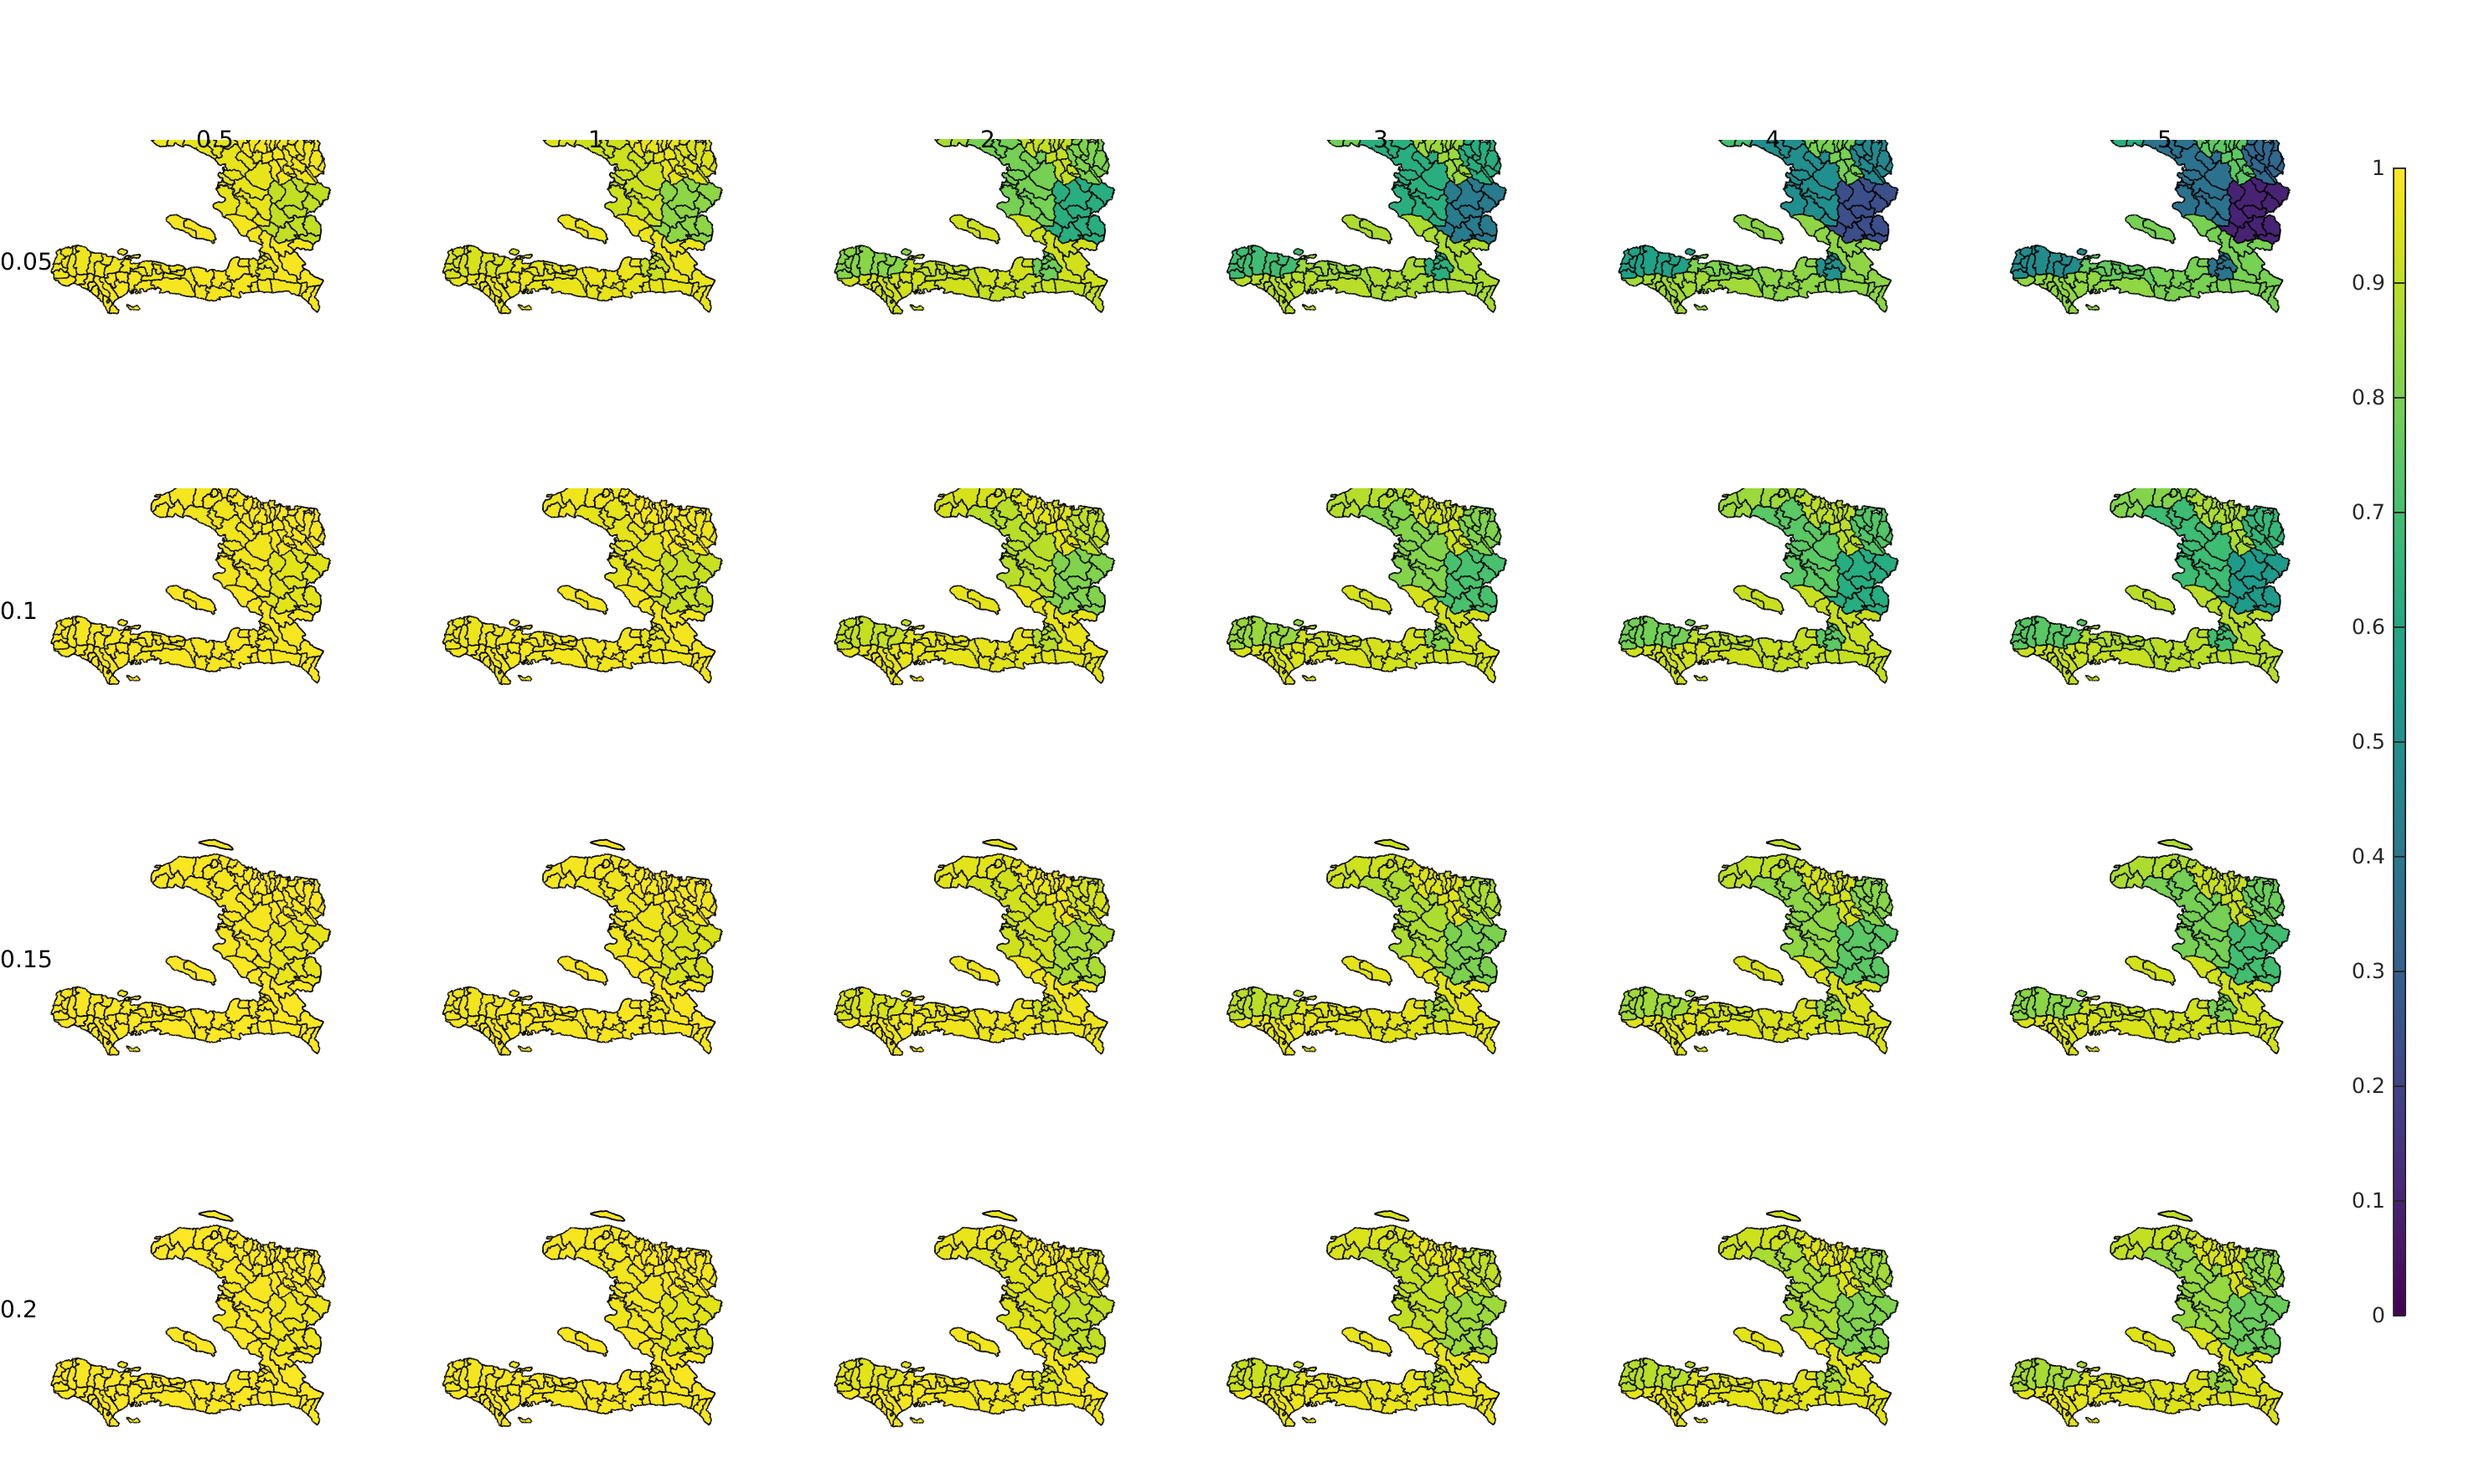
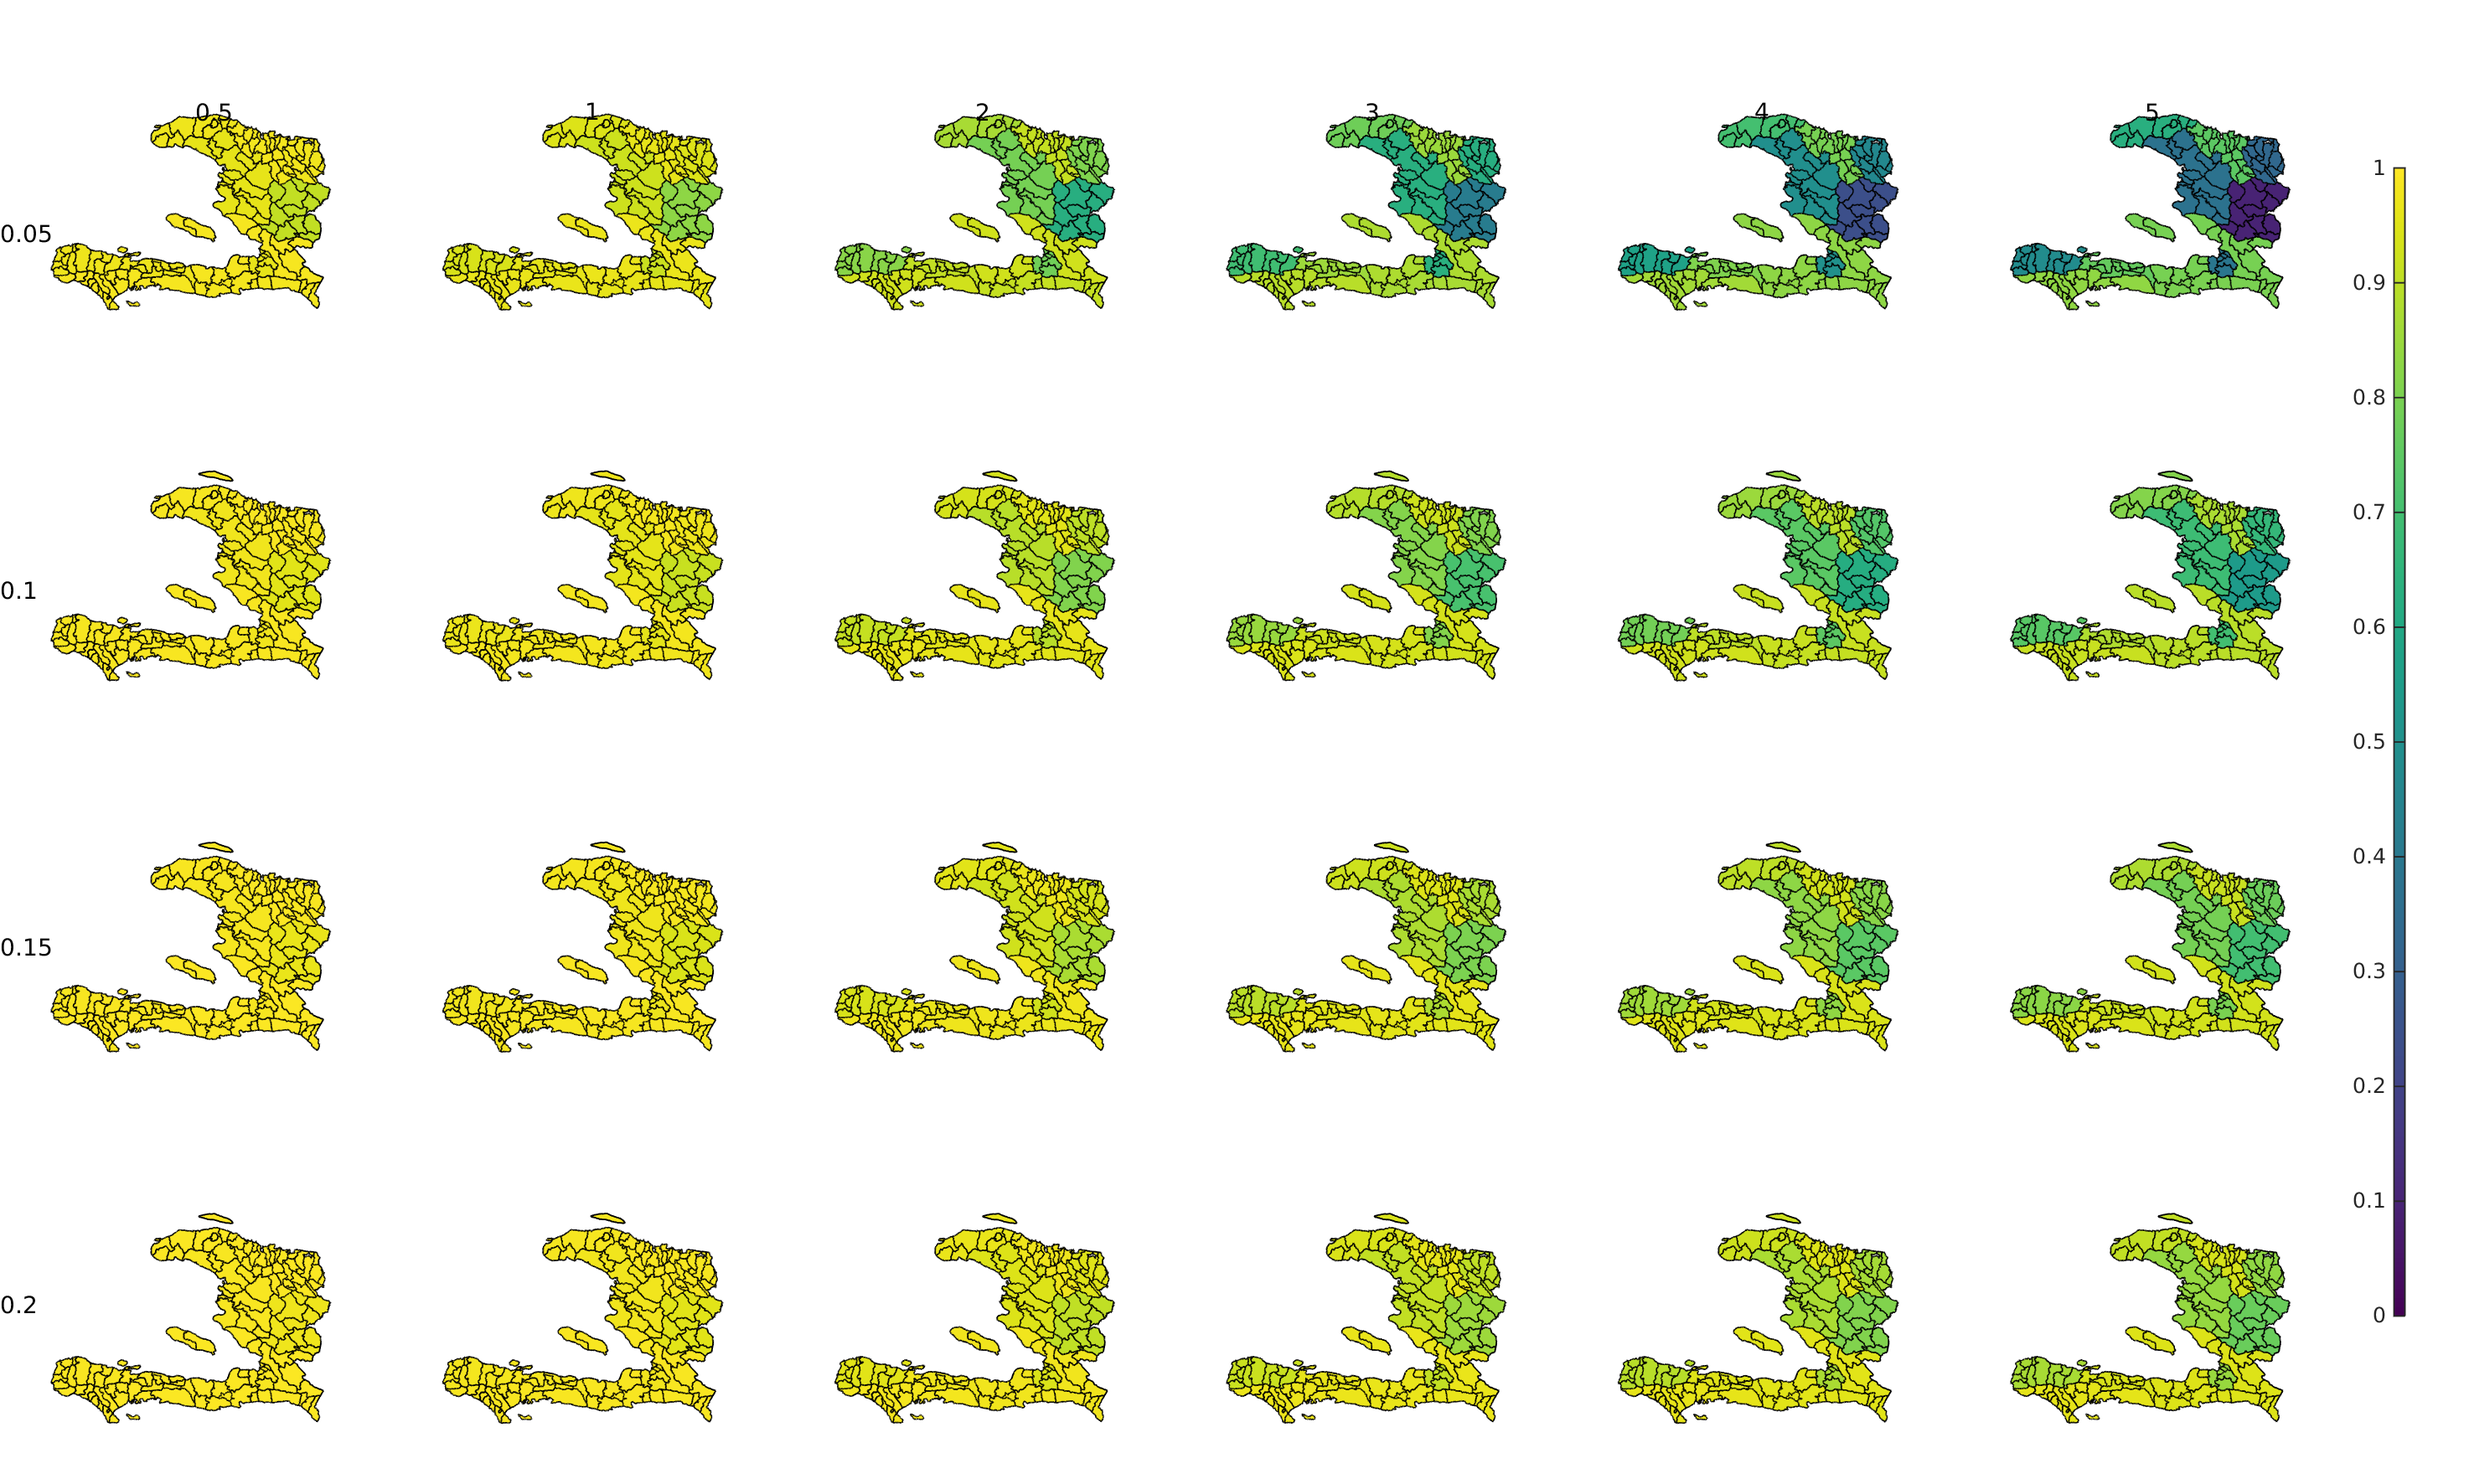
chg figure size

diff --git a/run.m b/run.m
@@ -32,8 +32,8 @@ sigma=[0.05,0.1,0.15,0.2];
 fig=figure();
 fig.PaperUnits = 'centimeters';
 fig.Units = 'centimeters';
-fig.Position = [0 0 45 25];
-fig.PaperPosition = [0 0 45 25];
+fig.Position = [0 0 50 30];
+fig.PaperPosition = [0 0 50 30];
 
 cscale=[0,1];
 
